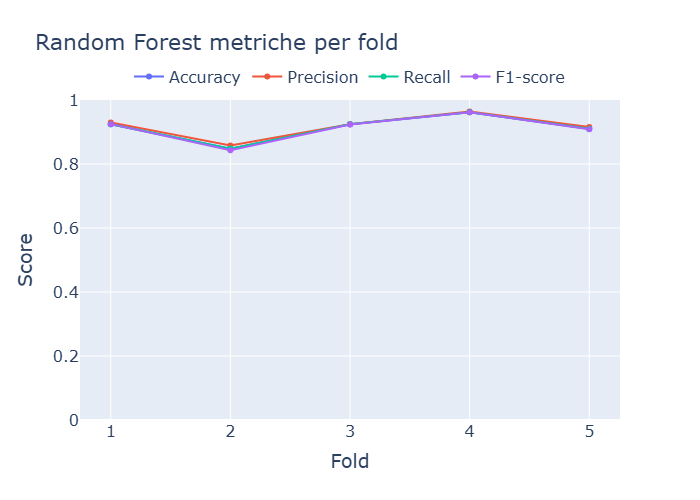
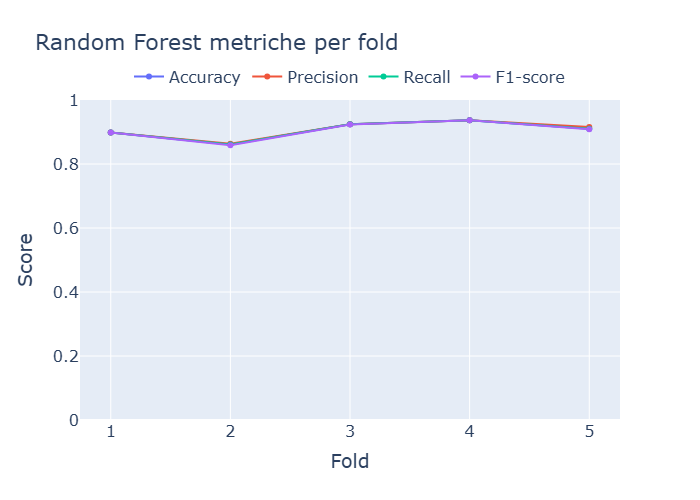
piccoli cambiamenti

Changed region(s): [[0.42, 0.21, 0.84, 0.27], [0.15, 0.24, 0.42, 0.3]]

diff --git a/variazione_esperimento/preprocessing.py b/variazione_esperimento/preprocessing.py
@@ -147,7 +147,8 @@ for window in ALL_X_filtered:
         peaks_ecg, mean_rr,
         peaks_fgsr, mean_int_f, mean_diff_f,
         peaks_hgsr, mean_int_h, mean_diff_h,
-        rms_emg, mean_resp
+        rms_emg, mean_resp,
+        std_ecg, std_fgsr, std_hgsr, std_emg, std_resp
     ])
 #le trasformo in un array numpy per poterle salvare dopo più facilmente.
 FEATURES = np.array(FEATURES)